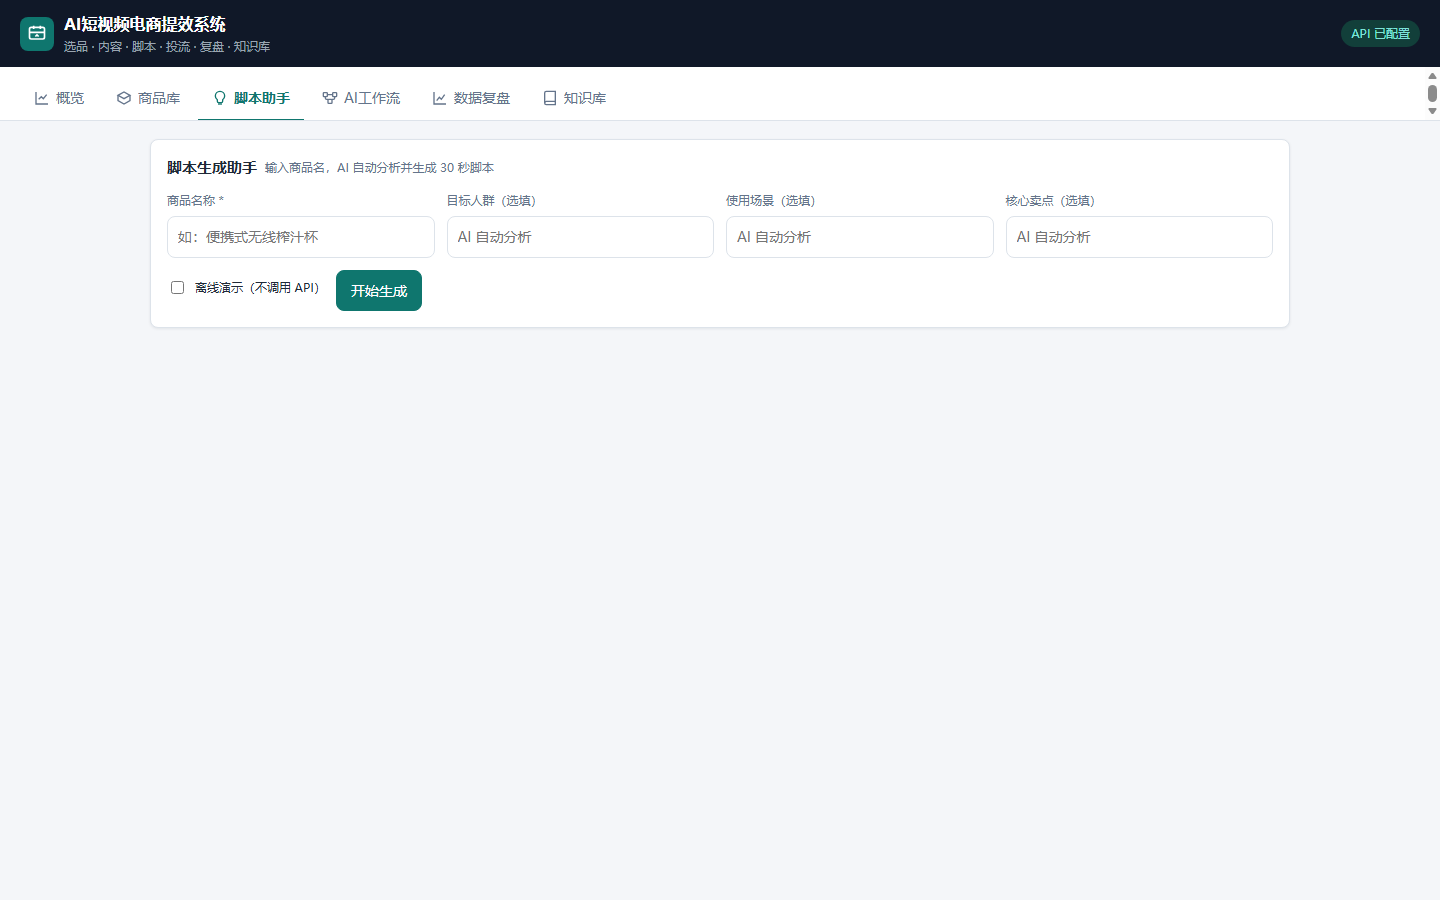
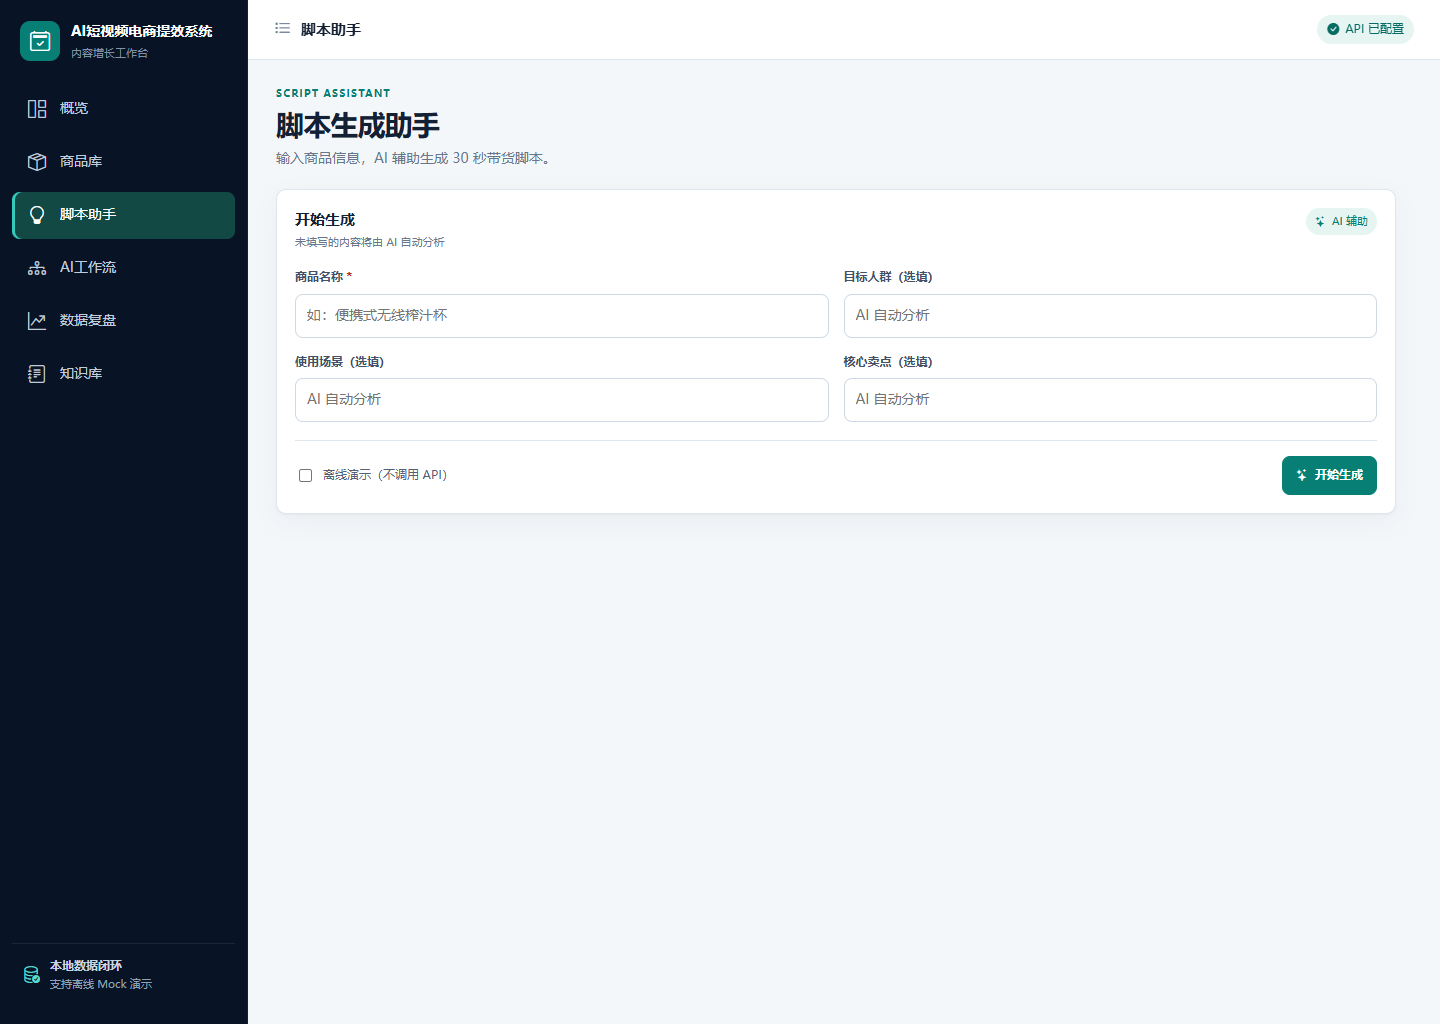
docs: refresh interface showcase images

diff --git a/README.md b/README.md
@@ -13,6 +13,14 @@
 ![Tests](https://img.shields.io/badge/Tests-pytest-green)
 ![License](https://img.shields.io/badge/License-MIT-yellow)
 
+## 🖥 新版工作台
+
+<p align="center">
+  <img src="screenshots/dashboard.png" alt="AI短视频电商提效系统—今日工作台" width="100%">
+</p>
+
+> 左侧统一业务导航，首屏聚合快捷操作、核心指标、内容生产流程、近期产出和知识库资源。
+
 ## ✨ 亮点一览：30 秒看完为什么用它
 
 独特能力 | 一句话
@@ -38,15 +46,15 @@ python webui.py
 浏览器自动打开 `http://127.0.0.1:8000`。页面里每个模块都可以单独勾选
 「离线演示」，不需要重启服务。
 
-## 界面预览
+## 📱 核心页面与移动端
 
-![概览](screenshots/dashboard.png)
+| 脚本助手 | 商品库 |
+| --- | --- |
+| ![脚本助手](screenshots/agent.png) | ![商品库](screenshots/products.png) |
 
-![脚本助手](screenshots/agent.png)
-
-![商品库](screenshots/products.png)
-
-![知识库](screenshots/knowledge.png)
+| 知识库 | 移动端导航 |
+| --- | --- |
+| ![知识库](screenshots/knowledge.png) | <p align="center"><img src="screenshots/mobile.png" alt="移动端导航" width="260"></p> |
 
 ## 🎬 三种玩法
 
